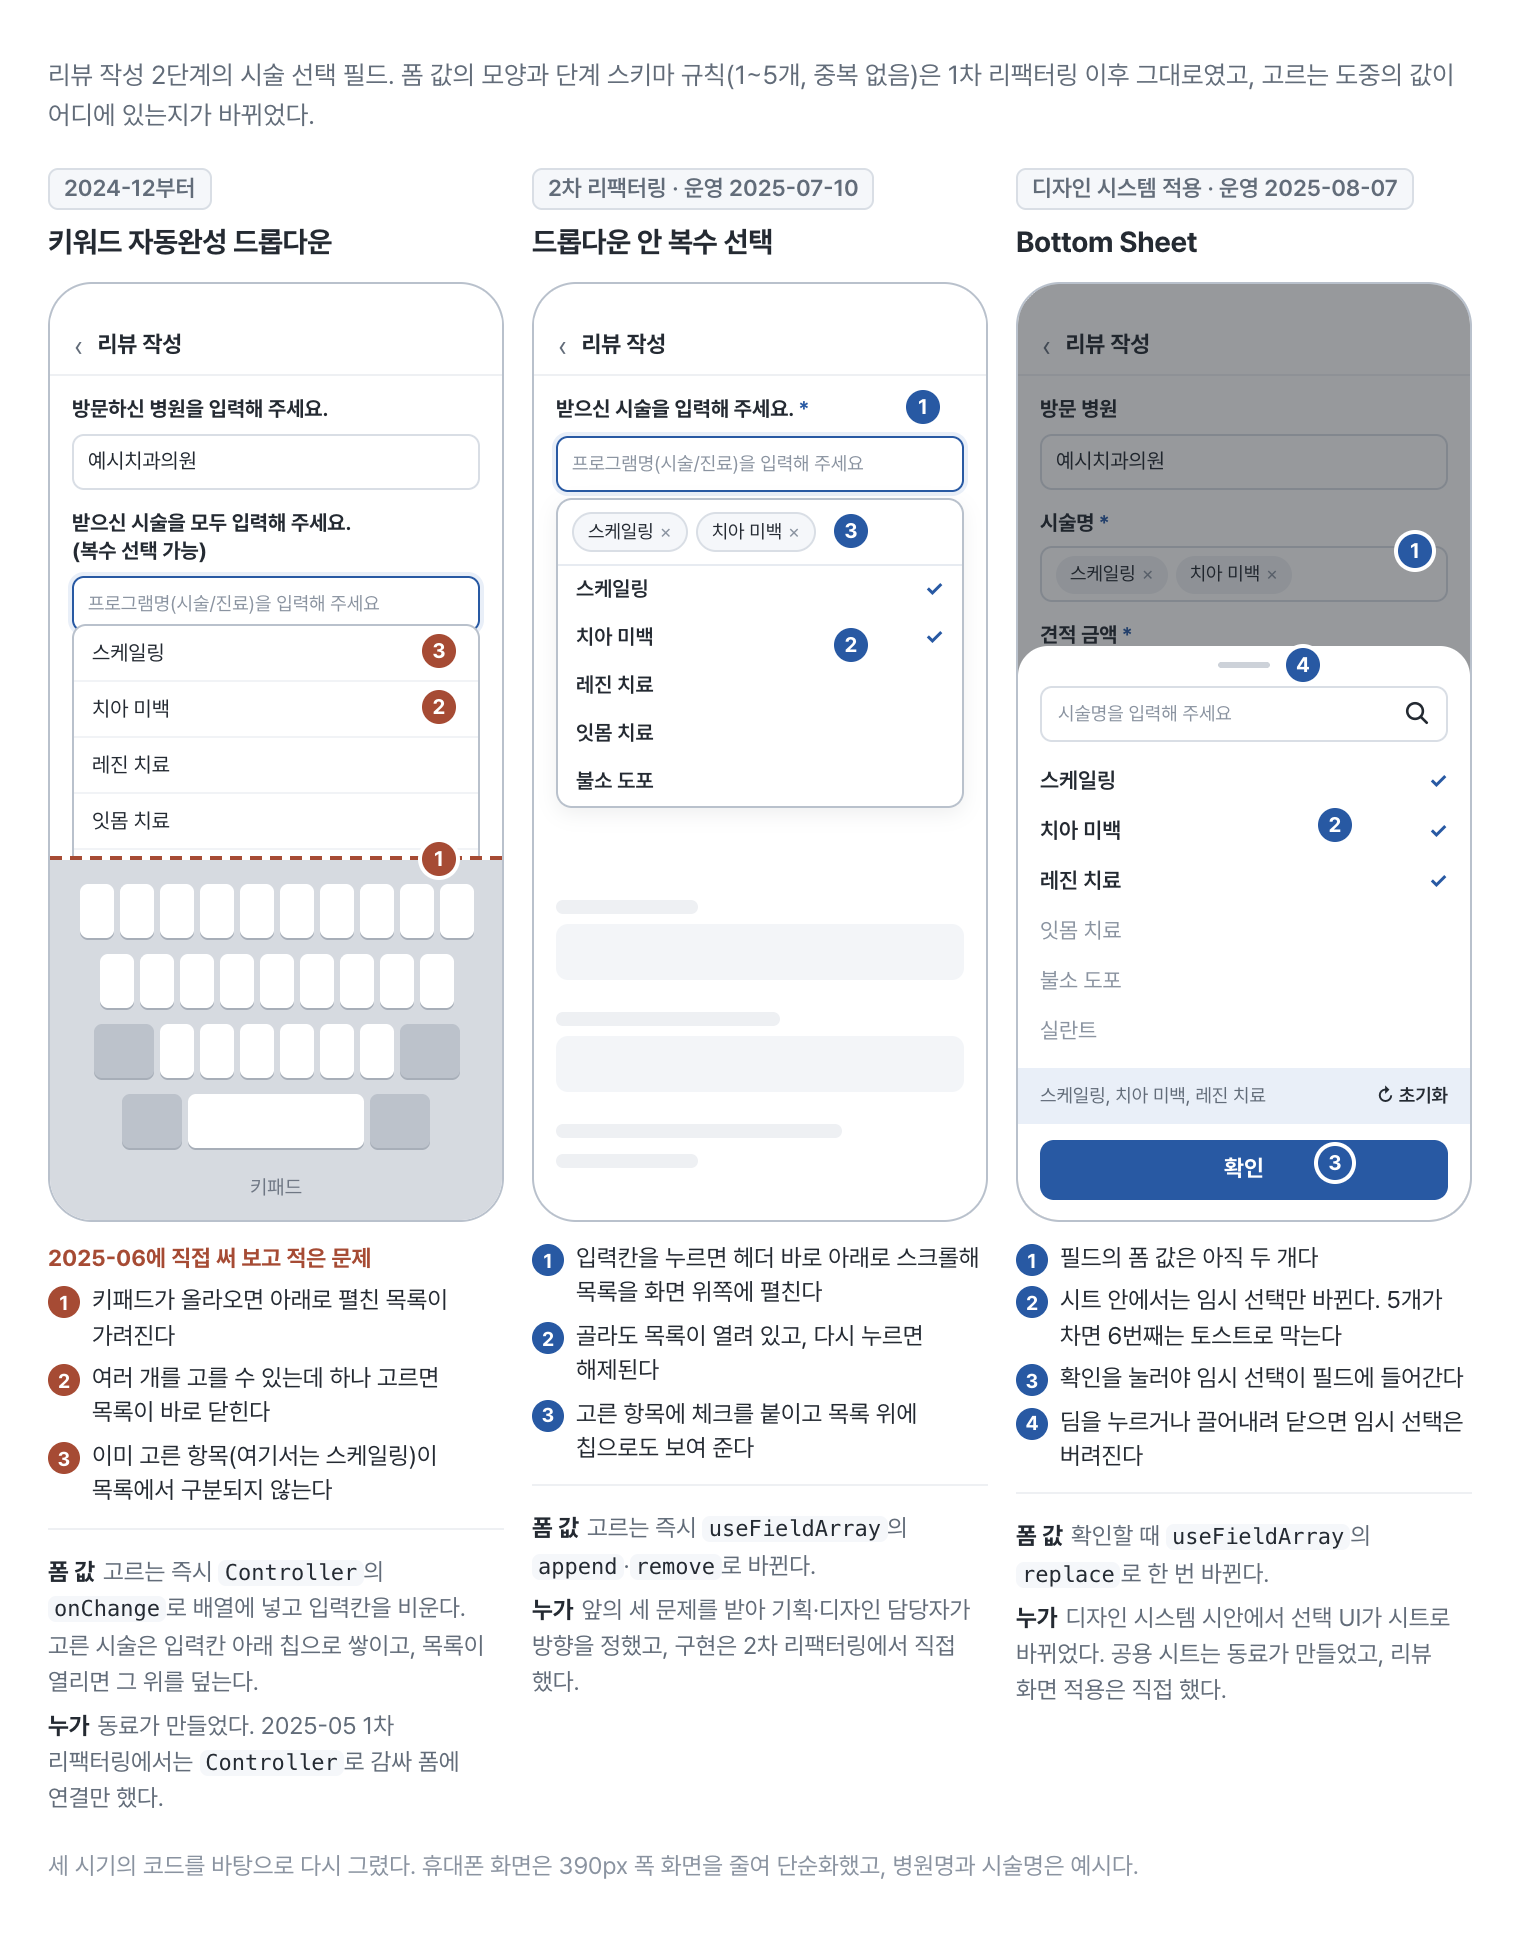
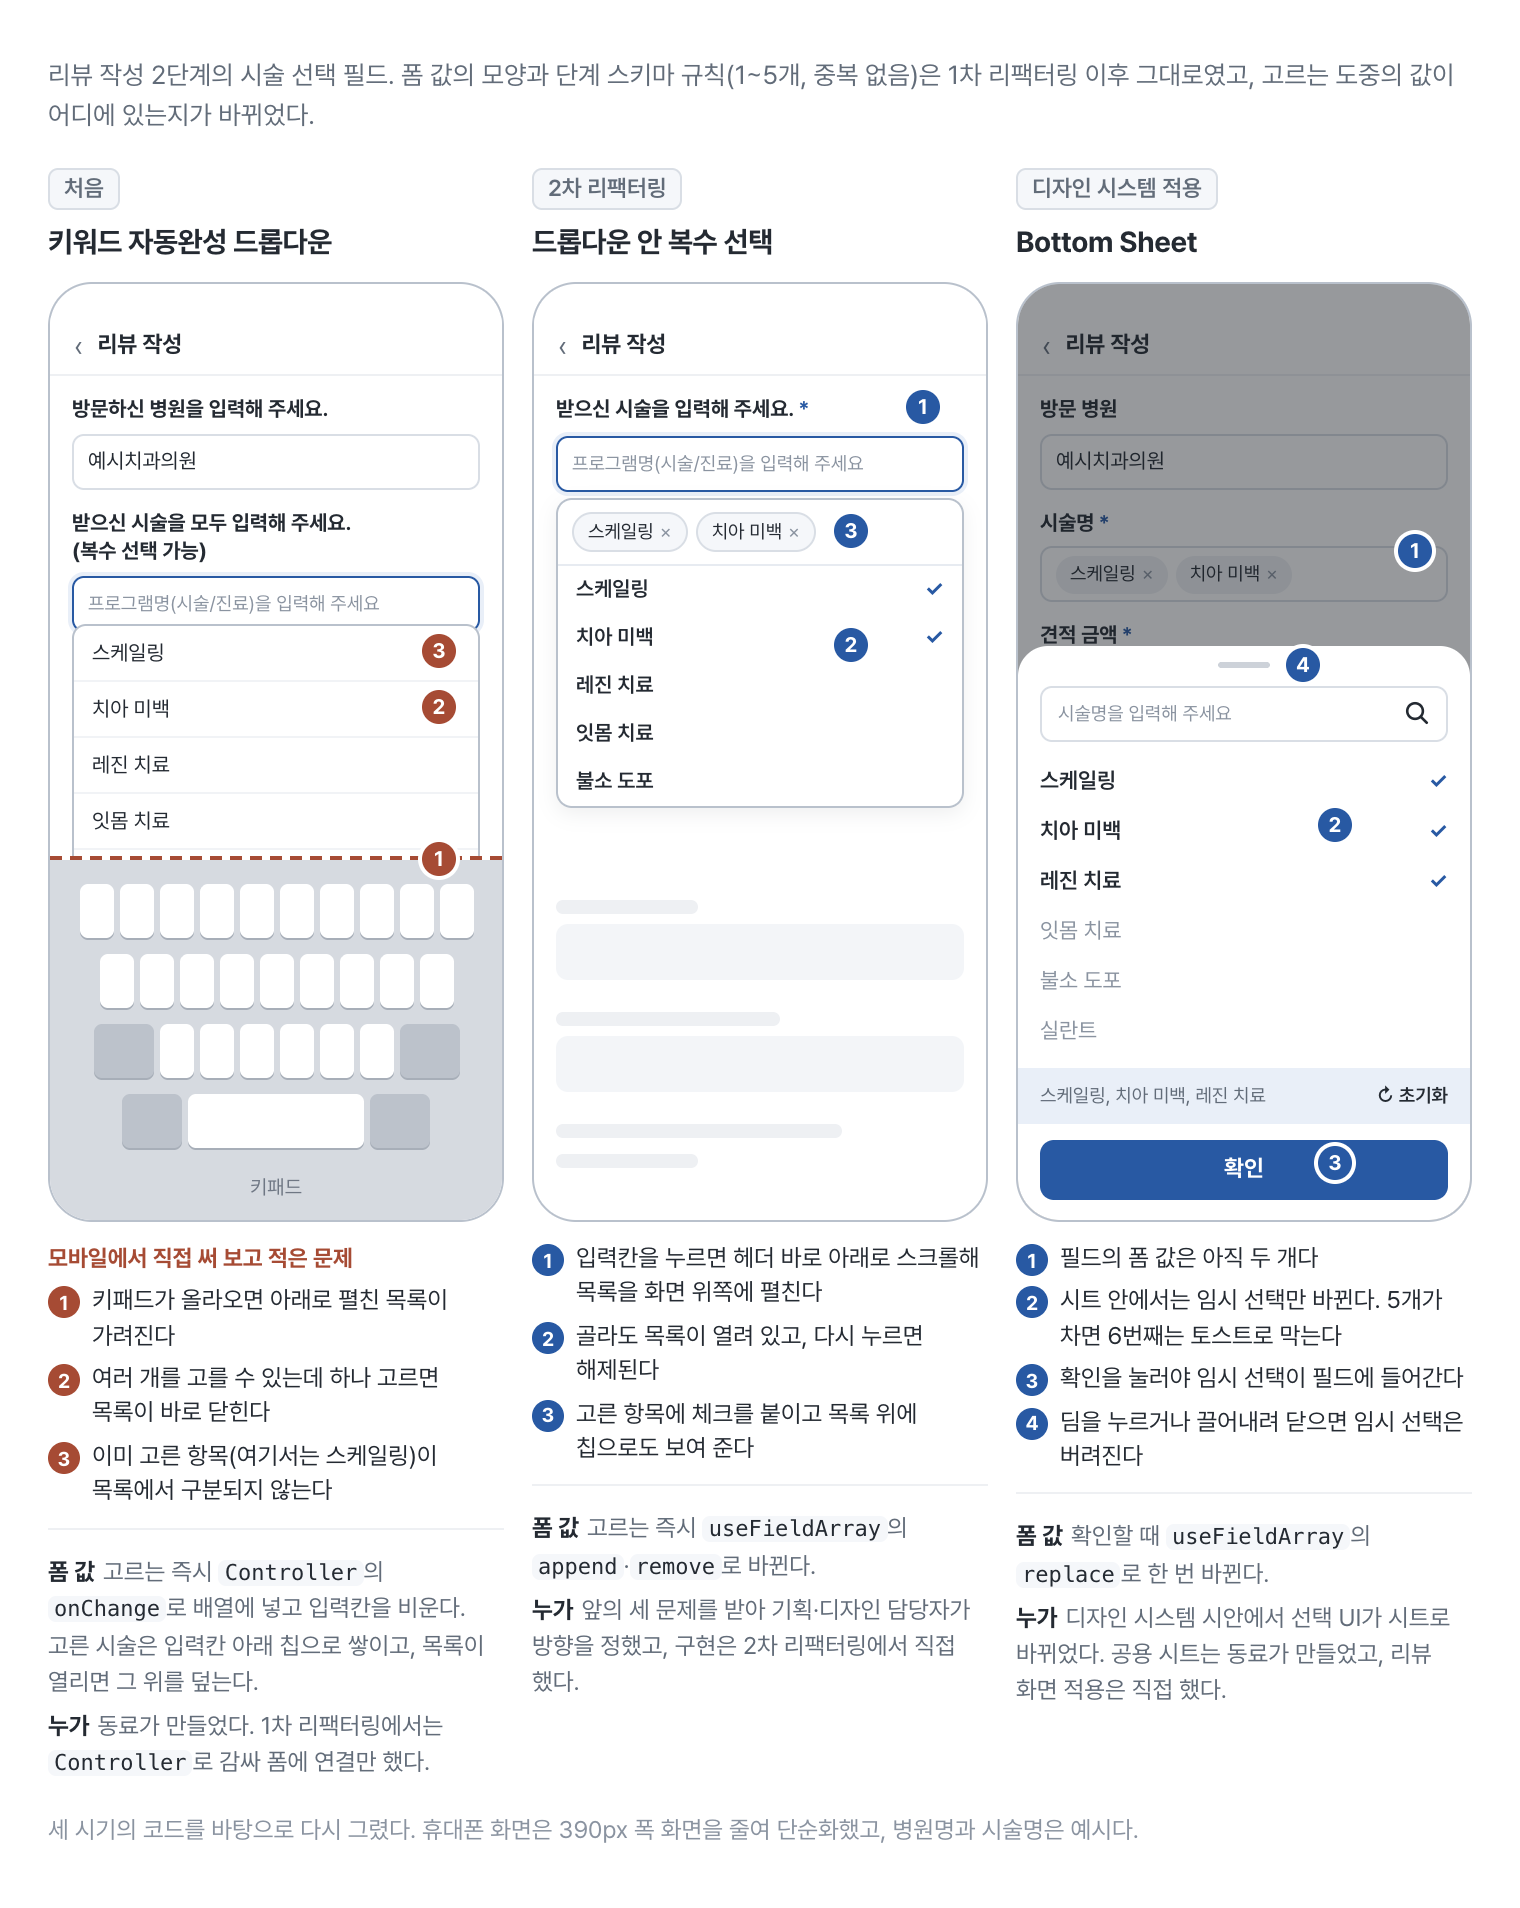
docs: 리뷰 선택 UI 그림에서 날짜를 빼고 단계 이름만 남긴다

diff --git a/blog/assets/figures/review-form/src/01-selection-ui.html b/blog/assets/figures/review-form/src/01-selection-ui.html
@@ -87,7 +87,7 @@
 
   <!-- A. 키워드 자동완성 드롭다운 -->
   <div>
-    <div class="col-head"><span class="era">2024-12부터</span><h4>키워드 자동완성 드롭다운</h4></div>
+    <div class="col-head"><span class="era">처음</span><h4>키워드 자동완성 드롭다운</h4></div>
     <div class="phone">
       <div class="sbar"></div>
       <div class="appbar"><i>‹</i>리뷰 작성</div>
@@ -119,7 +119,7 @@
       <span class="mk c" style="left: 186px; top: 175px;">3</span>
     </div>
     <div class="info">
-      <div class="legend-title">2025-06에 직접 써 보고 적은 문제</div>
+      <div class="legend-title">모바일에서 직접 써 보고 적은 문제</div>
       <ul class="legend c">
         <li><span class="n">1</span>키패드가 올라오면 아래로 펼친 목록이 가려진다</li>
         <li><span class="n">2</span>여러 개를 고를 수 있는데 하나 고르면 목록이 바로 닫힌다</li>
@@ -127,14 +127,14 @@
       </ul>
       <div class="kv">
         <p><b>폼 값</b>고르는 즉시 <code>Controller</code>의 <code>onChange</code>로 배열에 넣고 입력칸을 비운다. 고른 시술은 입력칸 아래 칩으로 쌓이고, 목록이 열리면 그 위를 덮는다.</p>
-        <p><b>누가</b>동료가 만들었다. 2025-05 1차 리팩터링에서는 <code>Controller</code>로 감싸 폼에 연결만 했다.</p>
+        <p><b>누가</b>동료가 만들었다. 1차 리팩터링에서는 <code>Controller</code>로 감싸 폼에 연결만 했다.</p>
       </div>
     </div>
   </div>
 
   <!-- B. 드롭다운 안 복수 선택 -->
   <div>
-    <div class="col-head"><span class="era">2차 리팩터링 · 운영 2025-07-10</span><h4>드롭다운 안 복수 선택</h4></div>
+    <div class="col-head"><span class="era">2차 리팩터링</span><h4>드롭다운 안 복수 선택</h4></div>
     <div class="phone">
       <div class="sbar"></div>
       <div class="appbar"><i>‹</i>리뷰 작성</div>
@@ -179,7 +179,7 @@
 
   <!-- C. Bottom Sheet -->
   <div>
-    <div class="col-head"><span class="era">디자인 시스템 적용 · 운영 2025-08-07</span><h4>Bottom Sheet</h4></div>
+    <div class="col-head"><span class="era">디자인 시스템 적용</span><h4>Bottom Sheet</h4></div>
     <div class="phone">
       <div class="sbar"></div>
       <div class="appbar"><i>‹</i>리뷰 작성</div>
